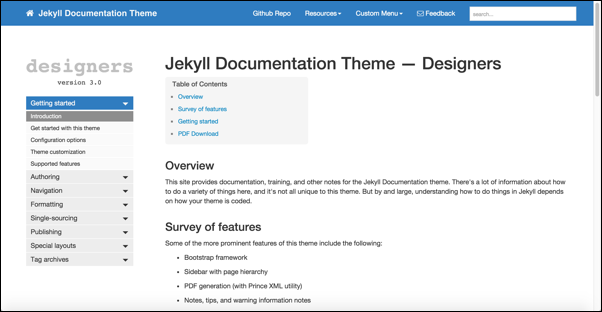
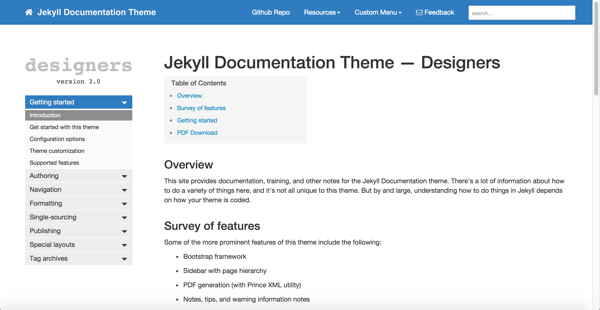
content update

diff --git a/_posts/2015/8/2015-08-13-version-3-jekyll-documentation-theme-released.md..md b/_posts/2015/8/2015-08-13-version-3-jekyll-documentation-theme-released.md..md
@@ -19,11 +19,11 @@ To see an example of the single sourced outputs, see the following:
 
 The Designers output has detailed instructions for working with the theme.
 
-<a href="http://idratherbetellingstories.com/documentation-theme-jekyll/doc_designers/"><img src="{{ "/images/jekyllthemescreenshot.png" | prepend: site.baseurl }}" alt="Documentation theme screenshot" /></a>
+<a href="http://idratherbetellingstories.com/documentation-theme-jekyll/doc_designers/"><img src="{{ "/images/jekyllthemescreenshot.png" | prepend: site.baseurl }}" alt="Documentation theme screenshot" style="border: 1px solid gray;" /></a>
 
 The Writers output is a slightly scaled back version of the same content, with another theme applied.
 
-<a href="http://idratherbetellingstories.com/documentation-theme-jekyll/doc_writers/"><img src="{{ "/images/jekyllthemewriters.png" | prepend: site.baseurl }}" alt="Documentation theme screenshot" /></a>
+<a href="http://idratherbetellingstories.com/documentation-theme-jekyll/doc_writers/"><img src="{{ "/images/jekyllthemewriters.png" | prepend: site.baseurl }}" alt="Documentation theme screenshot" style="border: 1px solid gray;" /></a>
 
 ## Prominent theme features
 
